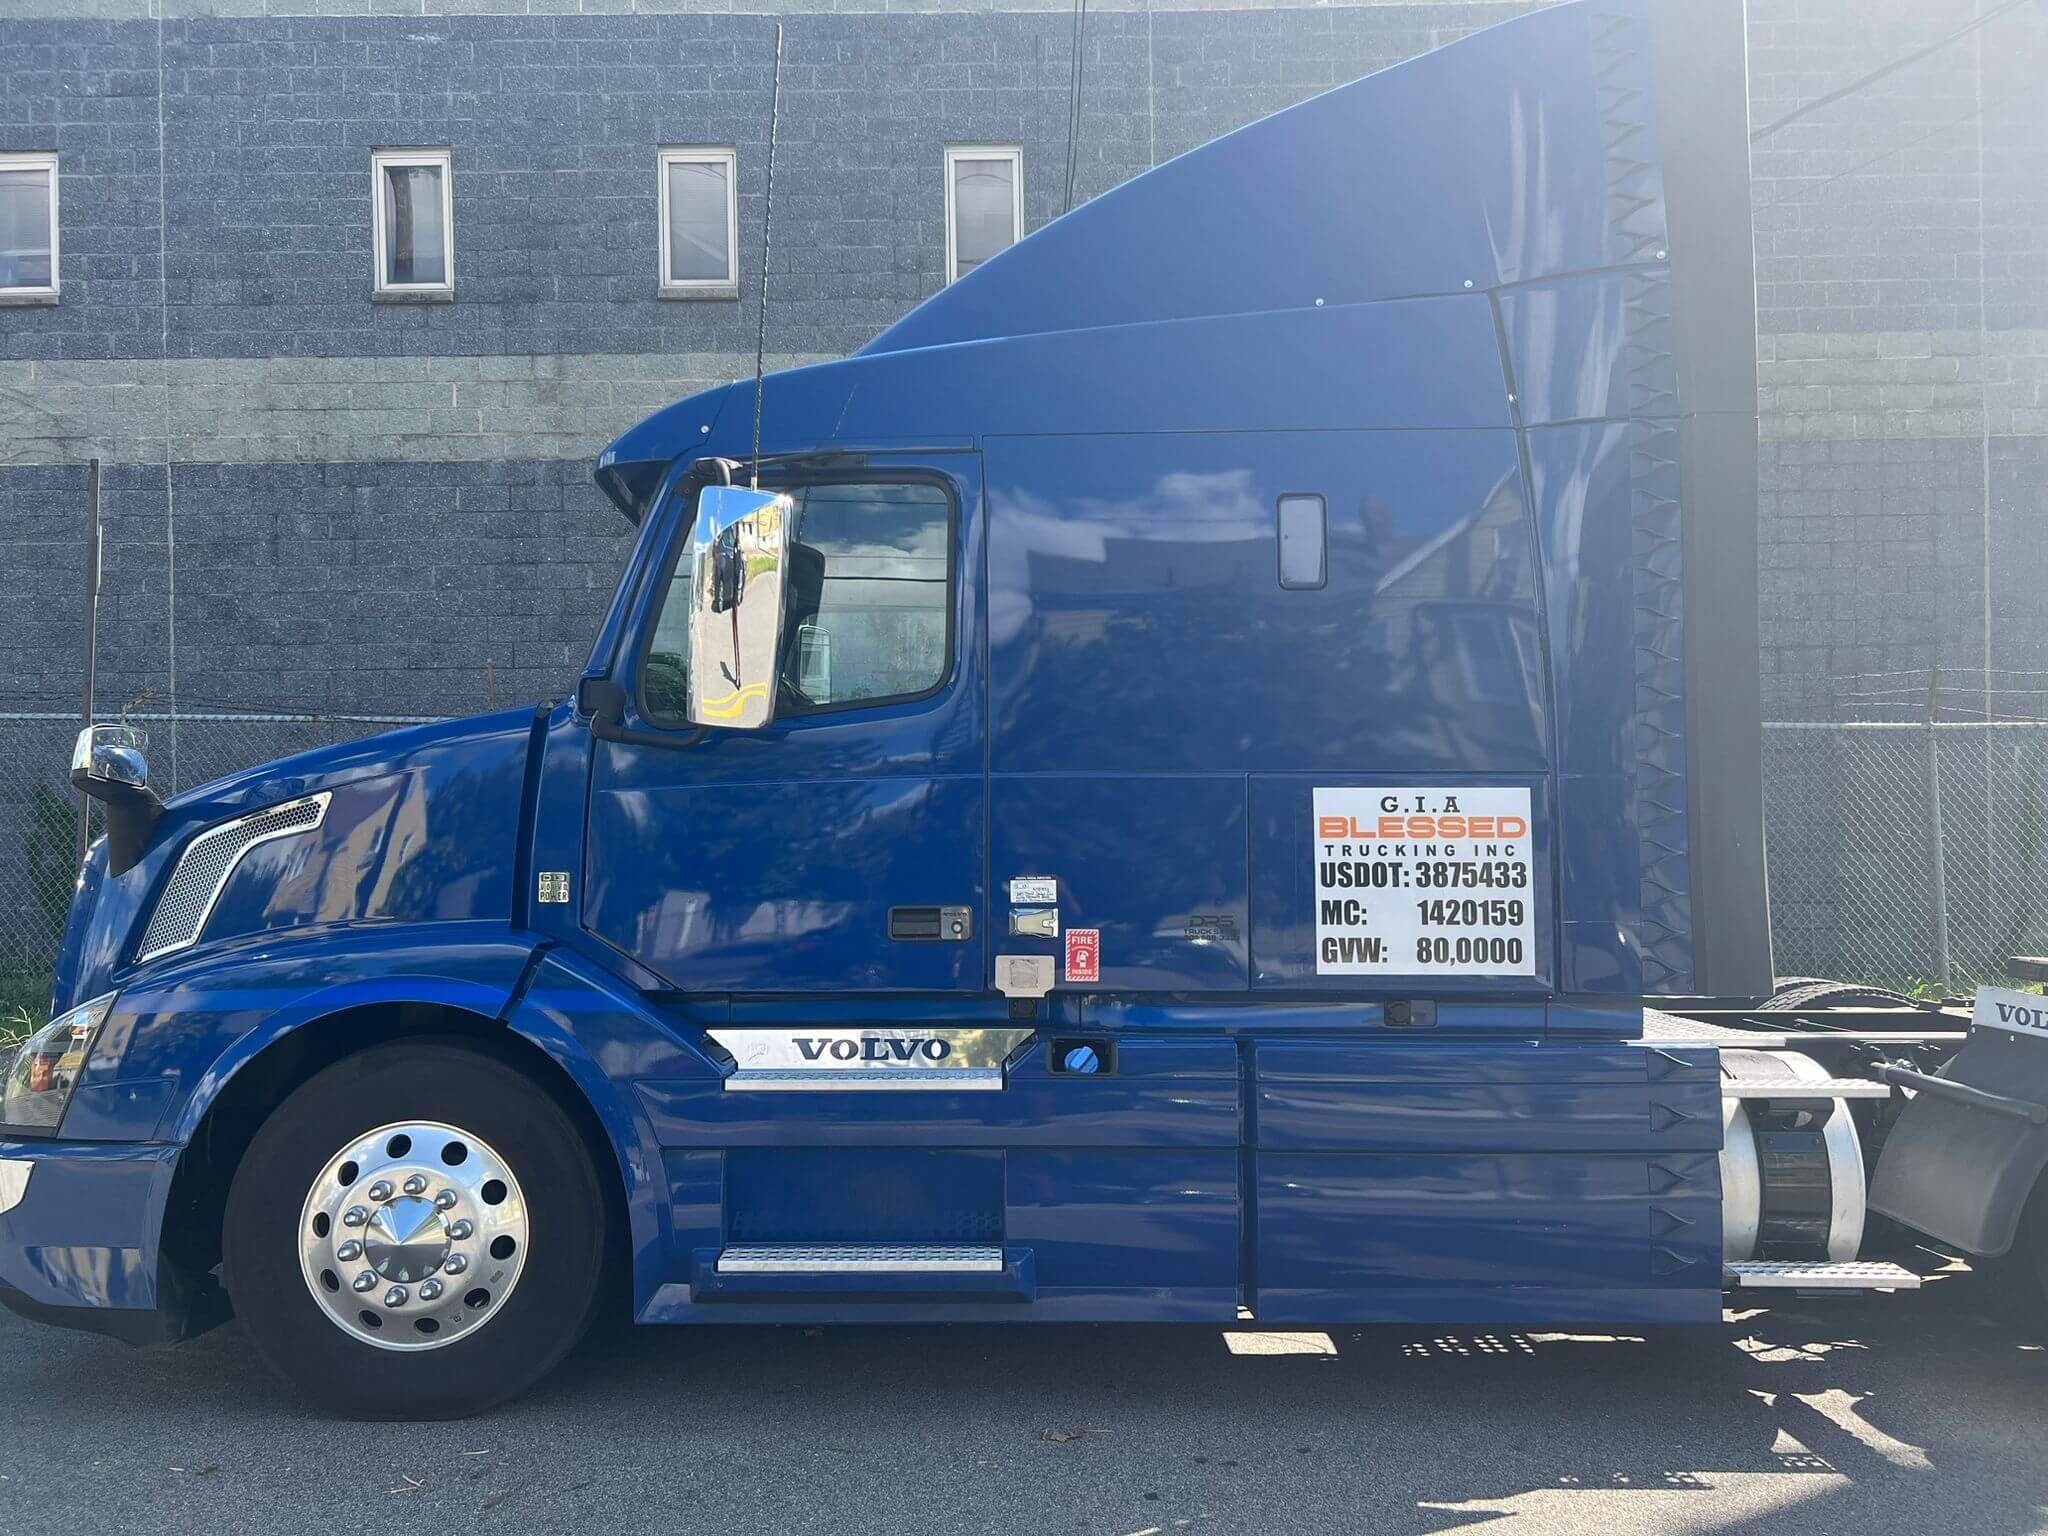
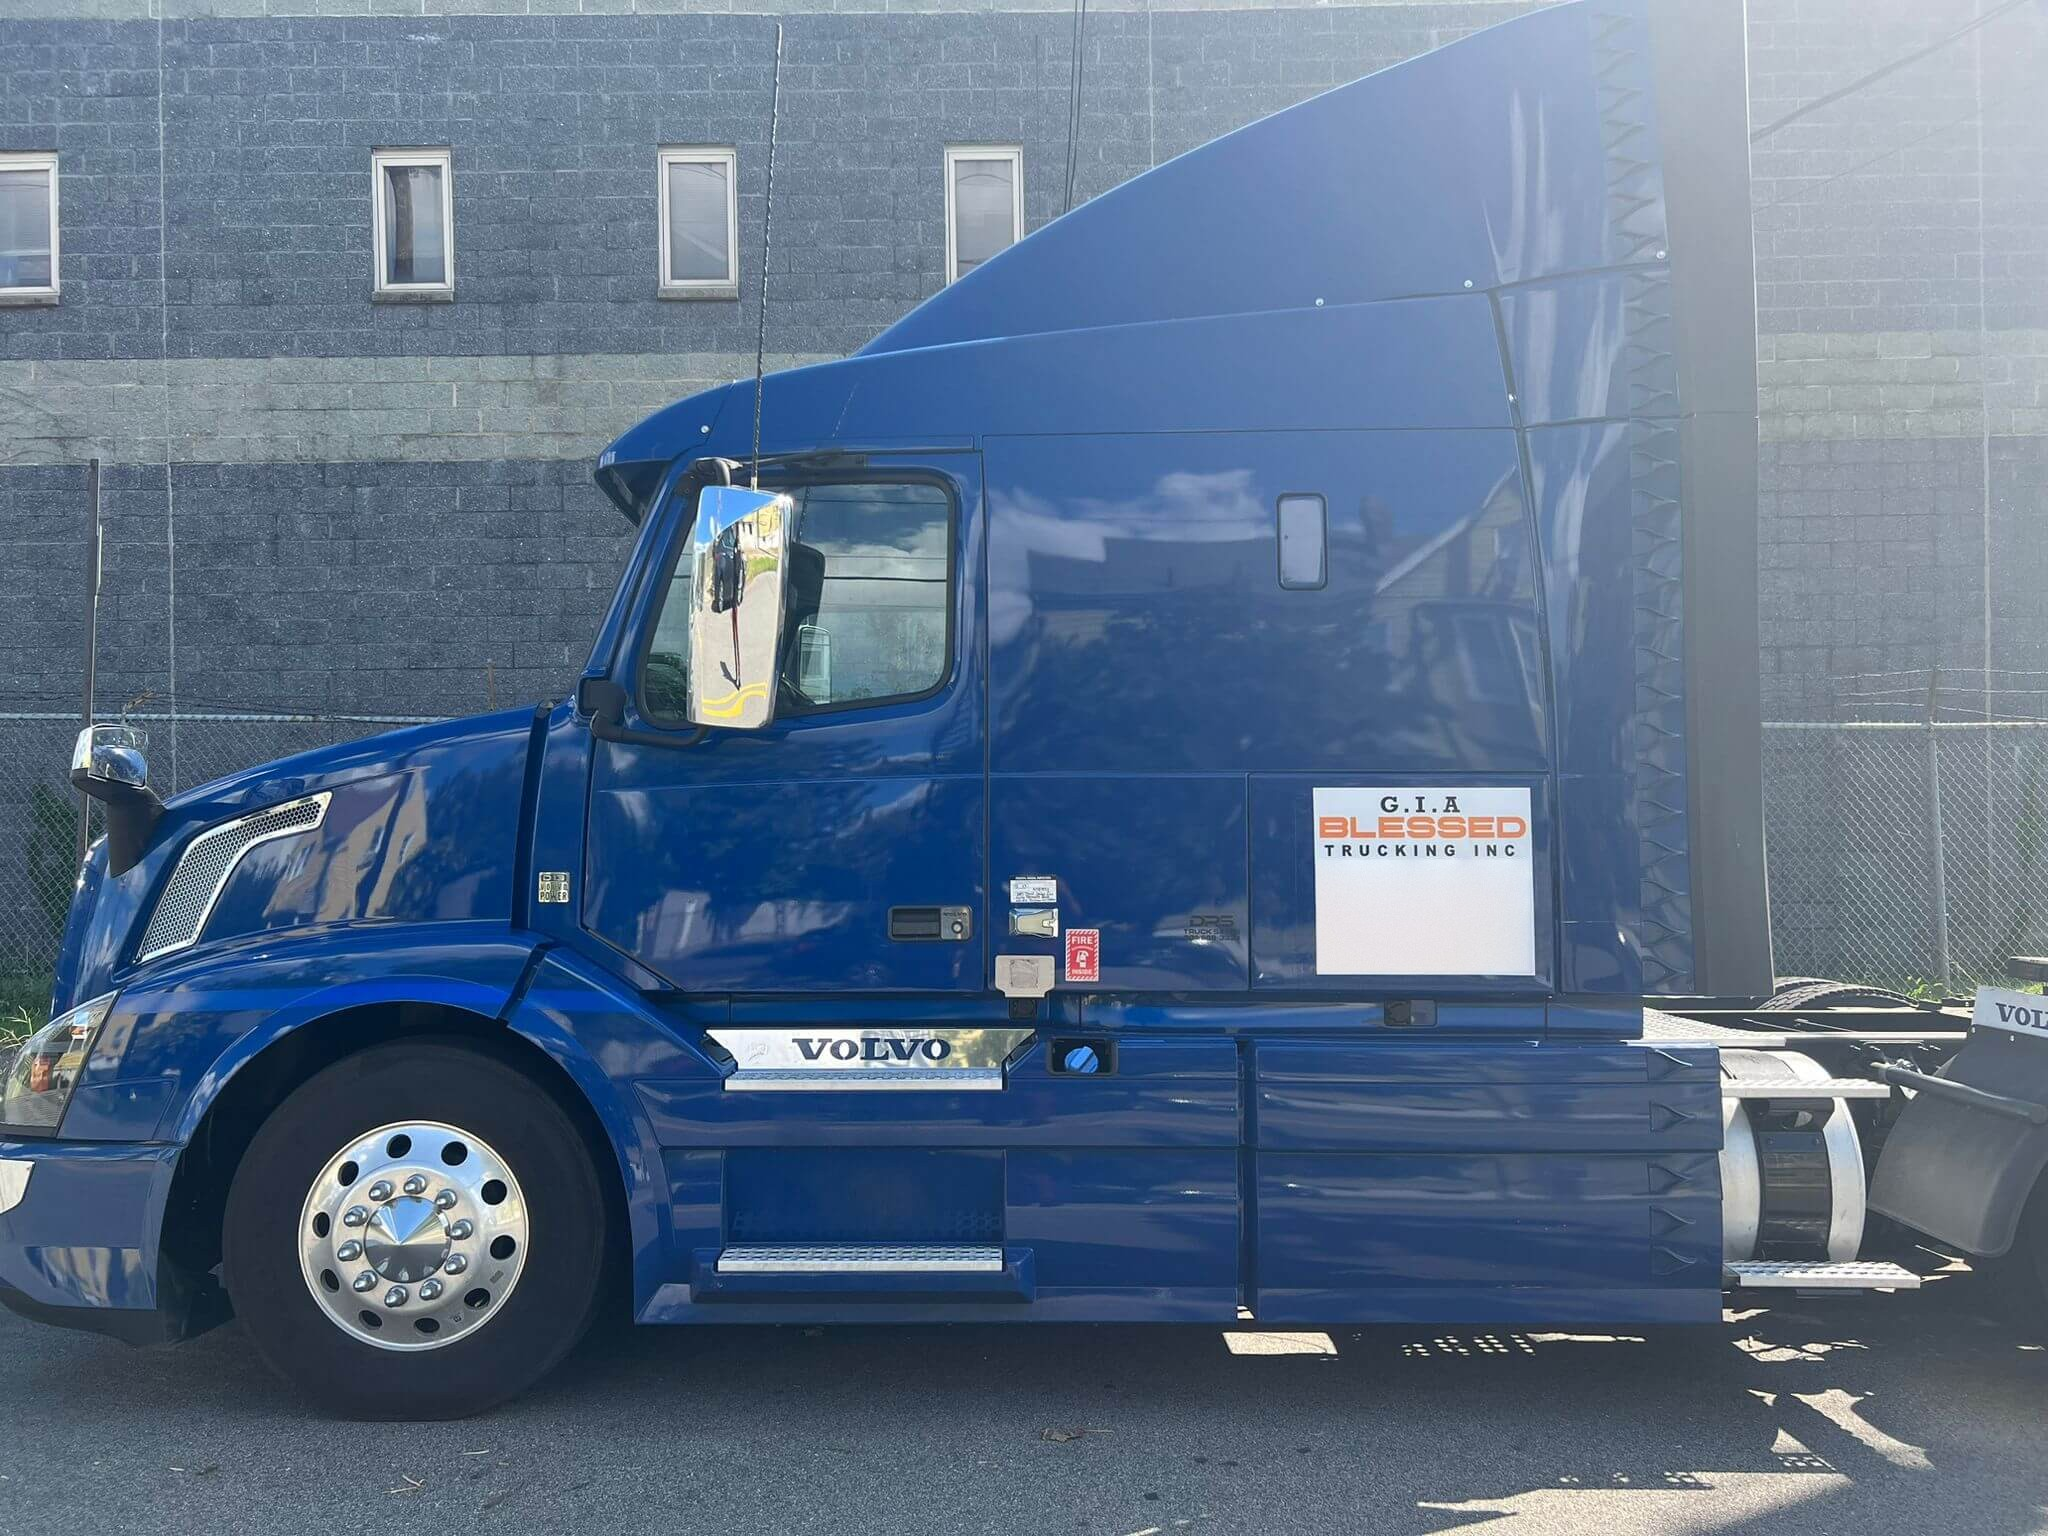
Remove the USDOT and MC numbers from the site and truck photos
The owner wants the carrier's USDOT and MC numbers off the website.

- Copy: footer line, the two Credentials number tiles, and the two FAQ
  answers that quoted them (also the FAQPage JSON-LD).
- Metadata: page description (meta/OG/Twitter/Organization) and the
  Organization `identifier` array.
- Drop the "Verify on FMCSA" button: its SAFER URL carried the USDOT
  number. "Request carrier packet" is now the primary action.
- public/llms.txt: USDOT, MC and SAFER lines.
- company.usdot / company.mc / company.saferUrl deleted so nothing can
  render them again; README and site.js note they are kept off on purpose.
- Photos: the door-decal USDOT/MC lines are painted out (filled from the
  surrounding decal/paint, not blurred) in hero-truck.jpg and the two
  unused originals in public/, which are still publicly reachable. On the
  blue decal the mistyped GVW line goes too, so it shows only the name.

Changed region(s): [[0.625, 0.5625, 0.75, 0.6562]]

diff --git a/src/components/Sections.js b/src/components/Sections.js
@@ -2,7 +2,7 @@ import Image from "next/image";
 import yard from "../../public/trucks.jpg";
 import logo from "../../public/GiaLogoFinal.png";
 import { company, faqs, process, services, values } from "@/content/site";
-import { ContainerIcon, ExternalIcon, MailIcon, RouteIcon, ShieldIcon, TruckIcon } from "./Icons";
+import { ContainerIcon, MailIcon, RouteIcon, ShieldIcon, TruckIcon } from "./Icons";
 import { ScrollLitText } from "./Reveal";
 
 function SectionHead({ eyebrow, title, children, dark = false }) {
@@ -189,9 +189,8 @@ export function About() {
 }
 
 export function Credentials() {
+  // `big` renders the value as a large orange figure; leave it off for prose.
   const tiles = [
-    { k: "USDOT number", v: company.usdot },
-    { k: "MC number", v: company.mc },
     { k: "Authority", v: "Motor carrier of property (except household goods)" },
     { k: "Operation", v: "Interstate · General freight · Containers" },
   ];
@@ -212,18 +211,14 @@ export function Credentials() {
                 Check us before you book us.
               </h2>
               <p data-reveal style={{ "--reveal-delay": "100ms" }} className="mt-5 text-lg leading-relaxed text-sand-50/70">
-                Our operating authority is public record with the U.S. Department of Transportation. Look us up,
-                then call us. Brokers and shippers can request our full carrier packet.
+                We are a for-hire motor carrier with interstate operating authority. Brokers and shippers can
+                request our full carrier packet, with our authority details and a current certificate of insurance,
+                before the first load.
               </p>
               <div data-reveal style={{ "--reveal-delay": "180ms" }} className="mt-8 flex flex-wrap gap-3">
-                <a href={company.saferUrl} target="_blank" rel="noopener noreferrer" className="btn-sun">
-                  Verify on FMCSA
-                  <ExternalIcon className="h-4 w-4" />
-                  <span className="sr-only">(opens in a new tab)</span>
-                </a>
                 <a
                   href={`mailto:${company.email}?subject=${encodeURIComponent("Carrier packet request")}`}
-                  className="btn-ghost"
+                  className="btn-sun"
                 >
                   <MailIcon className="h-4 w-4" />
                   Request carrier packet
@@ -239,7 +234,7 @@ export function Credentials() {
                   className="flex min-h-[9.5rem] flex-col justify-between gap-6 bg-ink-950 p-6 sm:p-7"
                 >
                   <dt className="eyebrow text-steel-400">{t.k}</dt>
-                  <dd className={`font-mono font-medium tracking-tight ${i < 2 ? "text-3xl text-sun-400 sm:text-4xl" : "text-lg"}`}>
+                  <dd className={`font-mono font-medium tracking-tight ${t.big ? "text-3xl text-sun-400 sm:text-4xl" : "text-lg"}`}>
                     {t.v}
                   </dd>
                 </div>

diff --git a/src/content/site.js b/src/content/site.js
@@ -1,6 +1,8 @@
-// Every business fact on the site lives here. Authority numbers, cargo and
-// fleet size come from the FMCSA SAFER snapshot for USDOT 3875433 — keep them
-// in step with that record, and don't add a claim the record can't back.
+// Every business fact on the site lives here. Authority, cargo and fleet size
+// come from the company's FMCSA SAFER snapshot — keep them in step with that
+// record, and don't add a claim the record can't back.
+// The USDOT and MC numbers are kept off the site on purpose (Nov 2026): don't
+// add them back to copy, metadata, structured data, llms.txt or photos.
 
 export const company = {
   name: "GIA Blessed Trucking",
@@ -11,10 +13,6 @@ export const company = {
   phoneDisplay: "(347) 825-1155",
   email: "officemanager@giablessedtrucking.com",
   region: "New Jersey",
-  usdot: "3875433",
-  mc: "MC-1420159",
-  saferUrl:
-    "https://safer.fmcsa.dot.gov/query.asp?searchtype=ANY&query_type=queryCarrierSnapshot&query_param=USDOT&query_string=3875433",
 };
 
 export const nav = [
@@ -106,11 +104,11 @@ export const faqs = [
   },
   {
     q: "Are you a carrier or a freight broker?",
-    a: `We are a motor carrier: your load moves on our trucks with our drivers. Our USDOT number is ${company.usdot} and our MC number is ${company.mc}.`,
+    a: "We are a motor carrier, not a broker: your load moves on our trucks with our drivers.",
   },
   {
     q: "How can I verify your authority and insurance?",
-    a: `Look up USDOT ${company.usdot} on FMCSA SAFER to see our operating authority, and ask us for a current certificate of insurance or our full carrier packet.`,
+    a: "Ask us for our full carrier packet. It includes our operating authority details and a current certificate of insurance.",
   },
   {
     q: "When can I reach dispatch?",

diff --git a/src/components/Hero.js b/src/components/Hero.js
@@ -1,5 +1,6 @@
 import Image from "next/image";
-// Same photo as giaBlueTruck.jpeg with the decal's mistyped GVW line blurred.
+// Same photo as giaBlueTruck.jpeg: the decal's USDOT, MC and GVW lines are
+// painted out so it shows only the company name.
 import truck from "../../public/hero-truck.jpg";
 import { company, ticker } from "@/content/site";
 import { ArrowIcon, PhoneIcon } from "./Icons";
@@ -49,7 +50,7 @@ export default function Hero() {
     <section id="top" className="surface-dark relative isolate overflow-hidden bg-ink-950 text-sand-50">
       <Image
         src={truck}
-        alt="Blue GIA Blessed Trucking Volvo tractor with its USDOT and MC numbers on the door"
+        alt="Blue GIA Blessed Trucking Volvo tractor with the company name on the door"
         priority
         placeholder="blur"
         sizes="100vw"

diff --git a/src/app/layout.js b/src/app/layout.js
@@ -16,7 +16,7 @@ const mono = JetBrains_Mono({
 });
 
 const description =
-  "New Jersey trucking company (USDOT 3875433, MC-1420159) hauling full truckload freight and intermodal containers across the lower 48. 24/7 dispatch.";
+  "New Jersey trucking company hauling full truckload freight and intermodal containers across the lower 48. 24/7 dispatch.";
 
 export const metadata = {
   metadataBase: new URL(company.url),
@@ -104,10 +104,6 @@ const jsonLd = {
           closes: "23:59",
         },
       },
-      identifier: [
-        { "@type": "PropertyValue", propertyID: "USDOT", value: company.usdot },
-        { "@type": "PropertyValue", propertyID: "MC", value: company.mc },
-      ],
       makesOffer: services.map((svc) => ({
         "@type": "Offer",
         itemOffered: {

diff --git a/src/components/Footer.js b/src/components/Footer.js
@@ -39,9 +39,6 @@ export default function Footer() {
                   {company.email}
                 </a>
               </li>
-              <li className="pt-2 font-mono text-xs uppercase tracking-[0.16em] text-steel-400">
-                USDOT {company.usdot} · {company.mc}
-              </li>
             </ul>
           </div>
         </div>

diff --git a/README.md b/README.md
@@ -1,6 +1,6 @@
 # GIA Blessed Trucking — website
 
-Marketing site for GIA Blessed Trucking Inc (USDOT 3875433, MC-1420159).
+Marketing site for GIA Blessed Trucking Inc.
 Next.js 16 (App Router; static pages plus one server route) + React 19 +
 Tailwind 3, deployed on Netlify.
 
@@ -19,7 +19,10 @@ Node 22 (`.nvmrc`); Next 16 needs Node ≥ 20.9.
 ## Where things live
 
 - `src/content/site.js` — every business fact and all section copy. Authority,
-  cargo and operation must match the FMCSA SAFER record for USDOT 3875433.
+  cargo and operation must match the company's FMCSA SAFER record. The USDOT
+  and MC numbers are kept off the site on purpose — in copy, metadata,
+  structured data, `llms.txt` and the truck photos (the door decals are
+  painted out). Don't add them back.
 - `src/components/` — `Header`, `Hero`, `Sections` (statement, services,
   process, about, credentials), `Quote` (form), `Footer`.
 - `tailwind.config.js` — brand palette (`ink` navy, `sun` orange, `sand`),
